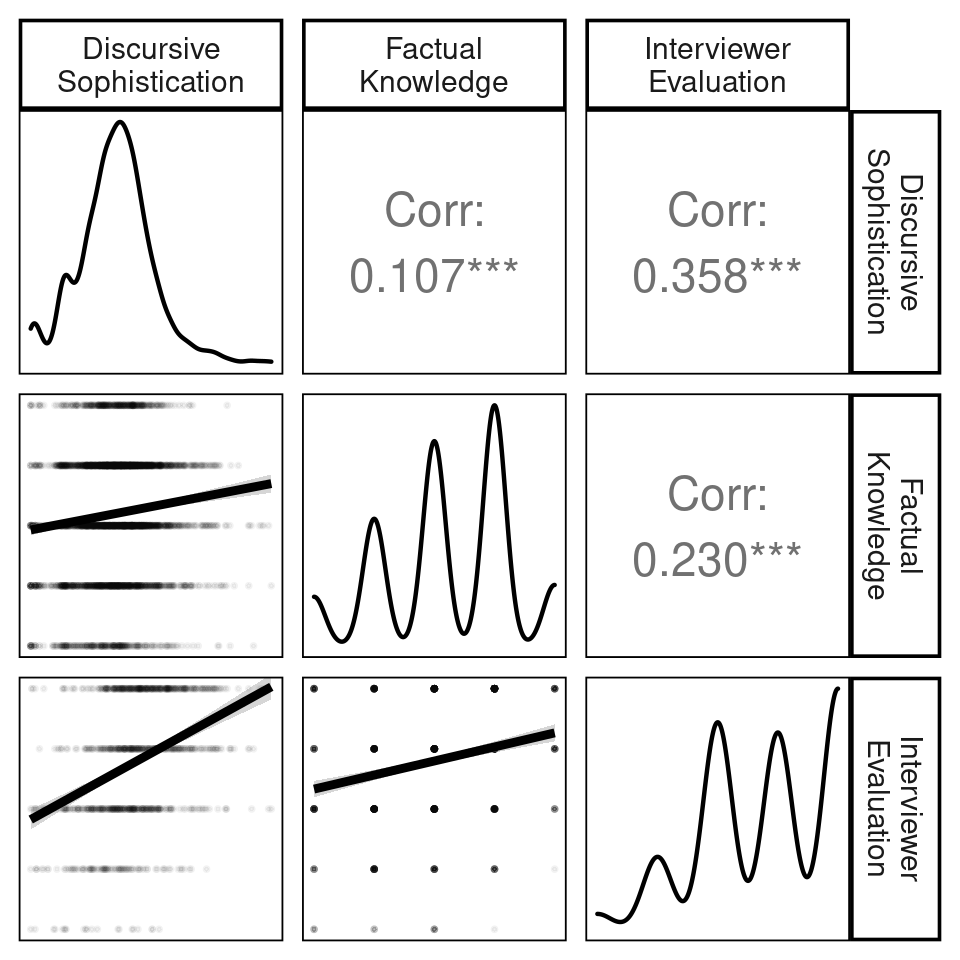
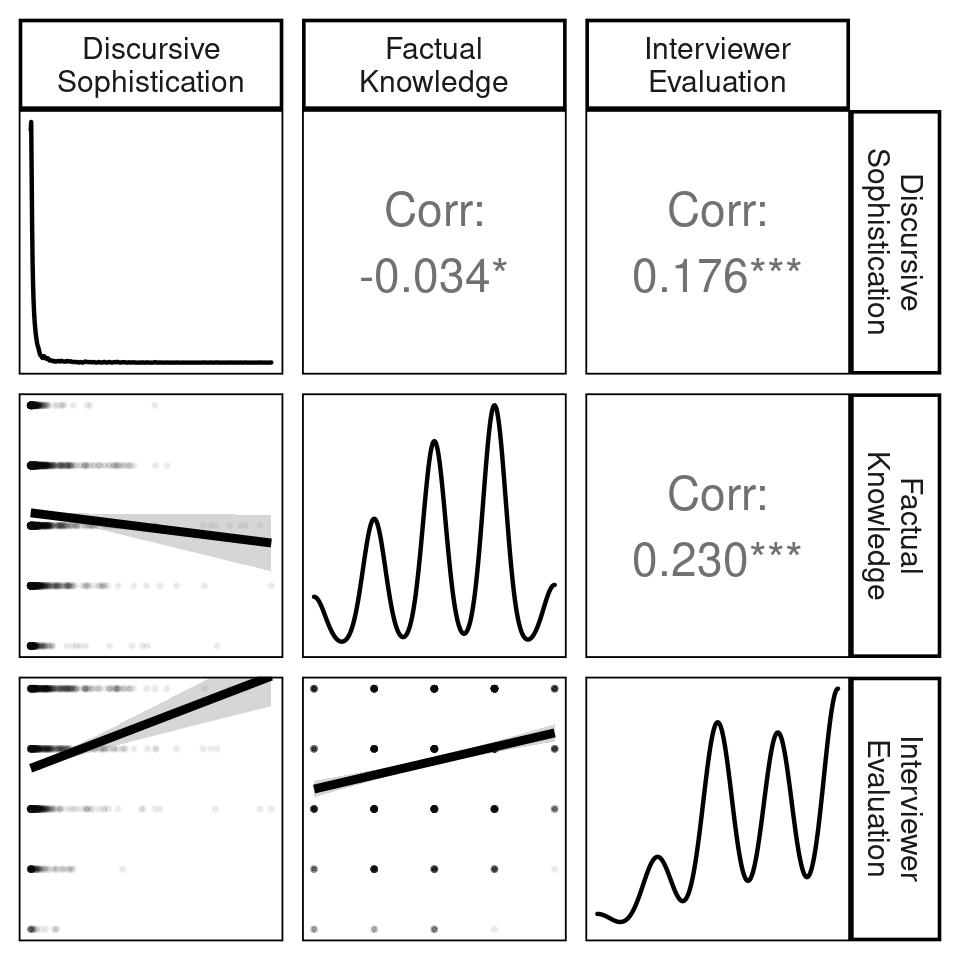
use standardized knowledge measures instead of 0-1 scaled

diff --git a/tab/factload.tex b/tab/factload.tex
@@ -1,5 +1,5 @@
-% latex table generated in R 4.1.2 by xtable 1.8-4 package
-% Tue Feb  1 15:14:48 2022
+% latex table generated in R 4.2.1 by xtable 1.8-4 package
+% Wed Aug  3 13:05:46 2022
 \begin{table}[ht]
 \centering
 \begin{tabular}{lcccc}
